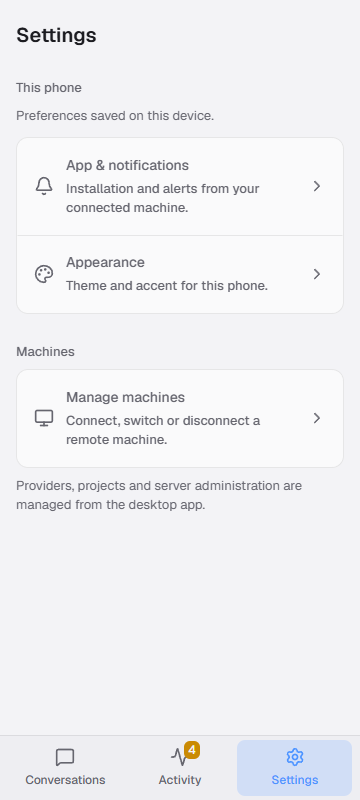
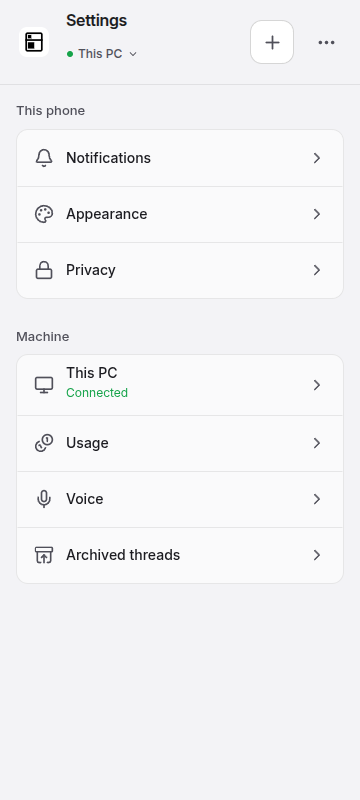
Phone: open an added project's draft, count CLI agents, update tests and docs

diff --git a/tests/e2e/project-thread-groups.test.ts b/tests/e2e/project-thread-groups.test.ts
@@ -60,19 +60,25 @@ for (const width of [1280, 390]) {
       await revealProject('t-scheduler');
       await option('other');
       await page.waitFor(`!document.querySelector('${root} ${id('project-shelf-toggle')}') && document.querySelector('${root} [data-project-id="${empty}"]')`);
-      await option('merged');
-      await revealProject(merged);
-      expect(await page.evaluate(`globalThis.__boiteTest.workspace.machines[0].store.client.call('threads.get', {threadId:'t-parser'}).then(t=>t.archived)`)).toBe(true);
-      await shot('projects-visible');
-      await showThreadView(page, 'recent', prefix);
-      await page.waitFor(`document.querySelector('${row(merged)}')`);
-      await option('merged');
-      expect(await page.evaluate('globalThis.__boiteTest.workspace.machines[0].store.client.sweepMergedPrArchives()')).toBe(1);
-      await page.waitFor(`!document.querySelector('${row(merged)}')`);
-      await page.click(id(`${prefix}project-filter`));
-      await page.evaluate(`Array.from(document.querySelectorAll('${id(`${prefix}project-filter-menu`)} [data-value]')).find(e => e.dataset.value === JSON.stringify(['http://builder.test', 'p-boite'])).click()`);
-      await option('merged');
-      expect(await page.evaluate('globalThis.__boiteTest.workspace.machines.map(m => m.store.projects.find(p => p.id === "p-boite").autoArchiveMergedPr)')).toEqual([true, false]);
+      if (width < 720) {
+        // A project's own switches stay on the desktop: the phone's panel holds the view and the groups.
+        expect(await page.evaluate(`document.querySelector('${menu} [data-value=merged], ${menu} [data-value="order:manual"]') === null`)).toBe(true);
+        await shot('projects-visible');
+      } else {
+        await option('merged');
+        await revealProject(merged);
+        expect(await page.evaluate(`globalThis.__boiteTest.workspace.machines[0].store.client.call('threads.get', {threadId:'t-parser'}).then(t=>t.archived)`)).toBe(true);
+        await shot('projects-visible');
+        await showThreadView(page, 'recent', prefix);
+        await page.waitFor(`document.querySelector('${row(merged)}')`);
+        await option('merged');
+        expect(await page.evaluate('globalThis.__boiteTest.workspace.machines[0].store.client.sweepMergedPrArchives()')).toBe(1);
+        await page.waitFor(`!document.querySelector('${row(merged)}')`);
+        await page.click(id(`${prefix}project-filter`));
+        await page.evaluate(`Array.from(document.querySelectorAll('${id(`${prefix}project-filter-menu`)} [data-value]')).find(e => e.dataset.value === JSON.stringify(['http://builder.test', 'p-boite'])).click()`);
+        await option('merged');
+        expect(await page.evaluate('globalThis.__boiteTest.workspace.machines.map(m => m.store.projects.find(p => p.id === "p-boite").autoArchiveMergedPr)')).toEqual([true, false]);
+      }
       await page.waitFor(`document.querySelector('${menu} [role=switch]')`);
       await shot('recent-options');
       // Each switch draws one knob, the shared one from app.css, not a second of its own.

diff --git a/tests/e2e/project-views.test.ts b/tests/e2e/project-views.test.ts
@@ -68,11 +68,9 @@ test('copy path stays readable with a long working directory in conversation men
   })()`);
   await page.send('Browser.grantPermissions', { origin: new URL(url).origin, permissions: ['clipboardReadWrite', 'clipboardSanitizedWrite'] });
   await page.send('Emulation.setFocusEmulationEnabled', { enabled: true });
-  for (const opener of ['thread-row', 'thread-title', 'thread-menu-trigger']) {
-    const phone = opener === 'thread-menu-trigger';
-    await page.send('Emulation.setDeviceMetricsOverride', { width: phone ? 360 : 1300, height: phone ? 800 : 850, deviceScaleFactor: 1, mobile: phone });
-    if (phone) await page.click(id(opener));
-    else await page.evaluate(`(() => {
+  for (const opener of ['thread-row', 'thread-title']) {
+    await page.send('Emulation.setDeviceMetricsOverride', { width: 1300, height: 850, deviceScaleFactor: 1, mobile: false });
+    await page.evaluate(`(() => {
       const { workspace } = globalThis.__boiteTest;
       const owner = workspace.active;
       const machine = workspace.machines.find(m => m.store === owner);
@@ -81,7 +79,7 @@ test('copy path stays readable with a long working directory in conversation men
         : document.querySelector('${id(opener)}');
       target.dispatchEvent(new MouseEvent('contextmenu', { bubbles: true, clientX: 100, clientY: 180 }));
     })()`);
-    const menu = id(phone ? 'thread-menu-trigger-menu' : 'context-menu');
+    const menu = id('context-menu');
     const copy = `${menu} [data-value=copy]`;
     await page.waitFor(`document.querySelector('${copy}')`);
     await capture(`copy-path-${opener}.png`);
@@ -95,6 +93,13 @@ test('copy path stays readable with a long working directory in conversation men
     // clipboard write is asynchronous and nothing awaits it.
     await page.waitFor(`navigator.clipboard.readText().then(text => text === ${JSON.stringify(cwd)})`);
   }
+  // A phone leaves the path to the desktop: its title menu has no Copy path.
+  await page.send('Emulation.setDeviceMetricsOverride', { width: 360, height: 800, deviceScaleFactor: 1, mobile: true });
+  await page.click(id('thread-menu-trigger'));
+  await page.waitFor(`document.querySelector('${id('thread-menu-trigger-menu')} [data-value=rename]')`);
+  expect(await page.evaluate(`document.querySelector('${id('thread-menu-trigger-menu')} [data-value=copy]')`)).toBeNull();
+  await page.click(id('thread-menu-trigger'));
+  await page.waitFor(`!document.querySelector('${id('thread-menu-trigger-menu')}')`);
   await page.send('Emulation.setDeviceMetricsOverride', { width: 1300, height: 850, deviceScaleFactor: 1, mobile: false });
   await page.send('Emulation.setFocusEmulationEnabled', { enabled: false });
 }, 20_000);

diff --git a/packages/ui/src/components/MobileNavigation.svelte b/packages/ui/src/components/MobileNavigation.svelte
@@ -57,7 +57,6 @@
   let groups = $derived(projectView.sorted(machines.flatMap(machine => machine.store.projects.filter(project => !project.archived).map(project => ({ machine, project })))));
   let activeGroups = $derived(recentPreferences.groupOtherProjects ? groups.filter(activeProject) : groups);
   let otherGroups = $derived(recentPreferences.groupOtherProjects ? groups.filter(entry => !activeProject(entry)) : []);
-  let shownGroups = $derived(query ? groups : activeGroups);
   let shelved = $derived(machines.flatMap(machine => machine.store.projects.filter(project => project.archived === true).map(project => ({ machine, project }))));
   let selected = $derived(projectView.selected(groups));
   let draftOwner = $derived(screen === 'threads' && workspace.view === 'recent' && selected ? selected.machine.store : store);
@@ -129,8 +128,16 @@
         ?.querySelector<HTMLElement>('[aria-haspopup=menu]')
     });
   }
+  /** Adding a project from the picker starts a draft in it: the phone opens that draft, as the desktop does. */
+  let known = $state<Set<string> | null>(null);
+  $effect(() => {
+    if (!known || store.projectPickerOpen) return;
+    const before = known;
+    known = null;
+    if (store.draft?.projectId && !before.has(store.draft.projectId)) show('chat');
+  });
   async function pickProject(key: string) {
-    if (key === 'add-project') { store.projectPickerOpen = true; return; }
+    if (key === 'add-project') { known = new Set(store.projects.map(p => p.id)); store.projectPickerOpen = true; return; }
     const [id, projectId] = JSON.parse(key) as [string, string];
     const target = machines.find(m => m.id === id);
     if (!target) return;

diff --git a/tests/e2e/speech.test.ts b/tests/e2e/speech.test.ts
@@ -263,10 +263,14 @@ test('Appearance hides Worktree on desktop and phone while preserving the draft 
   await page.waitFor(`!document.querySelector('${id('composer-options-sheet')}')`);
   await page.evaluate(`document.querySelector('${id('nav-settings')}').click()`);
   await page.click(id('settings-tab-appearance'));
+  // The buttons are chosen in the desktop's Appearance; the phone's leaves them out and follows the same choice.
+  await page.waitFor(`document.querySelector('${id('appearance-page')}')`);
+  expect(await page.evaluate(`document.querySelector('${id('control-composer.worktree')}')`)).toBeNull();
+  await page.send('Emulation.setDeviceMetricsOverride', { width: 1360, height: 950, deviceScaleFactor: 1, mobile: false });
   await page.waitFor(`document.querySelector('${id('control-composer.worktree')}')`);
   await page.click(id('control-composer.worktree'));
-  await page.evaluate(`document.querySelector('${id('control-composer.worktree')}').scrollIntoView({block:'center'})`);
-  await capture('speech-phone-appearance-worktree.png');
+  await page.send('Emulation.setDeviceMetricsOverride', { width: 390, height: 844, deviceScaleFactor: 1, mobile: true });
+  await page.waitFor(`document.querySelector('${id('mobile-settings-detail')}')`);
   // A new thread would open a draft of its own: the written one is reopened from its row.
   await leaveSettings('Preserve this worktree draft.');
   await page.click(id('composer-options'));

diff --git a/tests/e2e/mobile.test.ts b/tests/e2e/mobile.test.ts
@@ -331,9 +331,10 @@ test('Appearance in French at 360 px keeps every label beside its choices readab
       const text = row.querySelector('.text'), t = text.getBoundingClientRect(), s = row.querySelector('.segmented').getBoundingClientRect();
       return { text: text.textContent.trim(), clipped: text.scrollWidth > text.clientWidth + 1, overlap: t.right > s.left + 1 && t.left < s.right - 1 && t.bottom > s.top + 1 && t.top < s.bottom - 1, narrow: t.width < 120 };
     })`);
-    await page.evaluate(`document.querySelector('[data-testid=panel-start-launcher], [data-testid^=panel-start-]').scrollIntoView({ block: 'center' })`);
+    // The workspace and terminal rows are the desktop's: language, theme and the code face remain.
+    await page.evaluate(`document.querySelector('[data-testid^=font-mono-]').scrollIntoView({ block: 'center' })`);
     await capture('mobile-appearance-fr-360.png');
-    expect(rows.length).toBeGreaterThanOrEqual(4);
+    expect(rows.length).toBeGreaterThanOrEqual(3);
     expect(rows.filter(row => row.clipped || row.overlap || row.narrow)).toEqual([]);
     expect(await page.evaluate(`document.documentElement.scrollWidth <= innerWidth`)).toBe(true);
   } finally {

diff --git a/packages/ui/src/components/ThreadHeader.svelte b/packages/ui/src/components/ThreadHeader.svelte
@@ -75,8 +75,9 @@
   });
   let desktopItems = $derived(thread ? threadMenuItems(store, thread, { tools }) : []);
 
-  /** Children delegated from this thread, at work or done: the phone offers Subagents only then. */
-  let delegated = $derived(!!thread && (store.subagents(thread.id) !== null || store.threads.some(row => row.parentThreadId === thread!.id)));
+  /** Children delegated from this thread, at work or done, its CLI's own agents included: the phone offers Subagents only then. */
+  let delegated = $derived(!!thread && (store.subagents(thread.id) !== null || store.threads.some(row => row.parentThreadId === thread!.id)
+    || (store.delegation?.agents.length ?? 0) > 0 || (store.delegation?.nativeAgents?.length ?? 0) > 0));
   /**
    * A phone's header is the title and this one menu: the panel, ticked when
    * open, then the thread's own actions. The terminal, the coordination and

diff --git a/tests/e2e/group-relay.test.ts b/tests/e2e/group-relay.test.ts
@@ -117,8 +117,8 @@ test('a phone that cannot reach a machine of its group reaches it through the ma
 
     // Settings names the machine that carries it.
     await mobileAction(page, 'mobile-settings');
-    await page.waitFor(`document.querySelector('${id('settings-tab-machines')}')`);
-    await page.click(id('settings-tab-machines'));
+    await page.waitFor(`document.querySelector('${id('mobile-settings-connection')}')`);
+    await page.click(id('mobile-settings-connection'));
     const member = `${id('machine-card')}[data-machine-id="${relay}"]`;
     await page.waitFor(`document.querySelector('${member} ${id('machine-card-status')}')?.textContent === 'Connected through ' + globalThis.__boiteTest.workspace.machines[0].label`);
     await page.evaluate(`document.querySelector('${member}').scrollIntoView({ block: 'center' })`);

diff --git a/tests/e2e/branch-names.test.ts b/tests/e2e/branch-names.test.ts
@@ -74,7 +74,8 @@ test('changes panel and phone conversation list stay within the viewport with an
   await page.click('[data-testid="panel-toggle"]');
   for (const width of [390, 320]) {
     await page.send('Emulation.setDeviceMetricsOverride', { width, height: 844, deviceScaleFactor: 1, mobile: true });
-    expect(await fits('[data-testid="panel-toggle"]')).toBe(true);
+    // A phone's header is Back and the title's menu, which holds the panel.
+    expect(await fits('[data-testid="thread-menu-trigger"]')).toBe(true);
     await mobileAction(page, 'mobile-conversations');
     await page.waitFor(`document.querySelector('[data-testid="mobile-list"] .thread')`);
     expect(await page.evaluate(`(() => {

diff --git a/tests/e2e/pairing-recovery.test.ts b/tests/e2e/pairing-recovery.test.ts
@@ -32,7 +32,7 @@ test('a phone with no key is added again from Machines with a pasted link and se
   await page.waitFor(`document.querySelector('${id('mobile-header')}')`);
   await mobileAction(page, 'mobile-settings');
   await page.waitFor(`document.querySelector('${id('mobile-settings-home')}')`);
-  await page.click(id('settings-tab-machines'));
+  await page.click(id('mobile-settings-connection'));
   await page.waitFor(`document.querySelector('${id('machine-card')}')`);
   // Refused, and named by its address: it is not this phone, and it never answered.
   await page.waitFor(`document.querySelector('${id('machine-card')} .status')?.textContent === 'Add this app to your group'`);

diff --git a/tests/e2e/group-devices.test.ts b/tests/e2e/group-devices.test.ts
@@ -222,7 +222,7 @@ test('a phone installed from one machine scans the code of another and lists and
 
   // Settings, Machines on the phone: the group, its two machines and this phone, in one list.
   await mobileAction(phone, 'mobile-settings');
-  await phone.click(id('settings-tab-machines'));
+  await phone.click(id('mobile-settings-connection'));
   await phone.waitFor(`document.querySelectorAll('${id('machine-card')}').length === 2 && document.querySelector('${id('group-device')}')`);
   expect(await phone.evaluate(`document.body.textContent.includes('Phones and other devices')`)).toBe(false);
   await capture(phone, 'devices-phone-machines.png');

diff --git a/docs/phone.md b/docs/phone.md
@@ -7,9 +7,14 @@ remain on the machines.
 
 ## Settings on a phone
 
-The top-right menu opens Conversations, Activity and Settings. There is no
-bottom navigation bar. A conversation uses one compact header; Back returns
-to the thread list, which includes a search field. The composer stays at the
+The list's header holds the machine and project picker, whose last row adds a
+project, the new-thread `+` and a menu with the machine, Conversations,
+Activity, with its count, and Settings. There is no bottom navigation bar. A
+conversation's header holds Back, which carries a mark while another thread
+waits on the user, and its title, whose menu is the only one there. The thread
+list opens on its search field, with the display options at its right end:
+the view, by project or recent, and the grouping switches. The project order
+and a project's own switches stay on the desktop. The composer stays at the
 bottom of the available viewport, above the keyboard when it is open. A touch
 keyboard has no Shift+Enter, so where the primary pointer is coarse
 (`pointer: coarse`, the question the app's other touch rules ask) plain Enter
@@ -21,10 +26,15 @@ keyboard connected to such a device, so that keyboard's Enter writes a new
 line too. A touchscreen laptop whose primary pointer is a mouse keeps Enter's
 send.
 
-At phone widths, Settings opens a vertical list with separate screens for
-App & notifications, Appearance, and Machines. The back button or browser Back
-returns to that list. Theme and accent belong to the current device; the
-notification screen names the connected machine that will send its alerts.
+At phone widths, Settings opens a list in two groups. This phone:
+Notifications, Appearance and Privacy, the two analytics switches. Machine: the
+machine itself with its connection, which opens Machines, then Usage, Voice and
+Archived threads. Each opens a screen of its own; the back button or browser
+Back returns to the list. Theme and accent belong to the current device;
+Appearance also holds the chat's files and previews switch, and leaves the
+column width, the terminal, the workspace and the header's buttons to the
+desktop. The notification screen names the connected machine that will send
+its alerts, and offers to install the app while it is not installed.
 Machines shows the group: its machines, which the phone switches to or
 reconnects, and its devices, this phone marked as such. A phone that reaches no
 machine shows **Scan the code** and **Paste the link** there, as on its first
@@ -35,11 +45,15 @@ closing the view stops its tracks. A machine takes the hostname reported by its
 core; its card can rename it.
 Voice shows the connected core's dictation readiness. Engine installation and
 API credentials stay in desktop Voice settings, including for owner sessions.
-Usage shows the connected core's tokens and API cost per day, provider and
-model; Limits draws the core's subscription bars, read-only ([usage.md](usage.md)).
+Usage has two tabs: Usage shows the connected core's tokens and API cost per
+day, provider and model; Limits draws the core's subscription bars, read-only
+([usage.md](usage.md)).
 
-Provider accounts, keyboard shortcuts, plugins, resource limits, adding and
-removing devices and server configuration stay in desktop settings. This smaller
+Provider accounts, keyboard shortcuts, plugins, resource limits, the brain, the
+task manager, worktrees, automatic compaction, diagnostics, experiments, the
+tour, adding and removing devices and server configuration stay in desktop
+settings; a link or a card in a conversation that names one of those pages
+still opens it. Project management stays on the desktop too. This smaller
 phone menu also applies to owner sessions; it does not change RPC permissions.
 
 Device sessions receive only events corresponding to the state they may read.
@@ -292,14 +306,22 @@ link scanned or pasted in the app asks nothing either: the owner just showed it.
 
 The browser uses mobile navigation under 720 px. Conversations lists threads
 across connected machines; Activity puts waiting requests first, followed by
-running and queued turns. A phone has no right-click, so the actions a desktop
-finds there open from a tap: the conversation's title in its header lists
-rename, regenerate title, pin, copy path and archive, and the `...` button of a
-row in the list offers pin, regenerate title and archive. The same title sheet
-holds the Agents and Terminal toggles, so the header row keeps only the title,
-the context ring and the Panel button: at 360 px in French, 192 px of a 193 px
-title stay visible, where 96 px did with the toggles in the row. A draft's header shows its "New thread" label. Settings is the third destination. The header names
-the machine, connection and project, and starts a new conversation.
+running and queued turns; the header names the screen. A phone has no
+right-click, so the actions a desktop finds there open from a tap: the
+conversation's title in its header lists Browser, files and tools (the right
+panel), pin, rename, find in this thread, Subagents when the thread has some,
+archive and delete, and the `...` button of a row in the list offers the same
+actions a thread keeps on a phone, with Mark done in the list. A new title by
+the agent, moving to a project, the path, coordination and the terminal stay on
+the desktop. A draft's header shows its "New thread" label. Settings is the
+third destination.
+
+Under a conversation, the copy, edit and retry buttons show under the last
+prompt and the last answer; any other message shows its row when tapped, until
+a second tap on it or one elsewhere (`lib/message-reveal.svelte.ts`). A phone
+offers no fork. The turn's footer line, time, duration and tokens, stays. The
+composer's model chip names the model alone, without its account, and drops
+whole words when the row is short.
 
 Model, effort and action menus open as bottom sheets. The browser's Back, the
 Android Back gesture and a mouse's back button close the top sheet, dialog,
